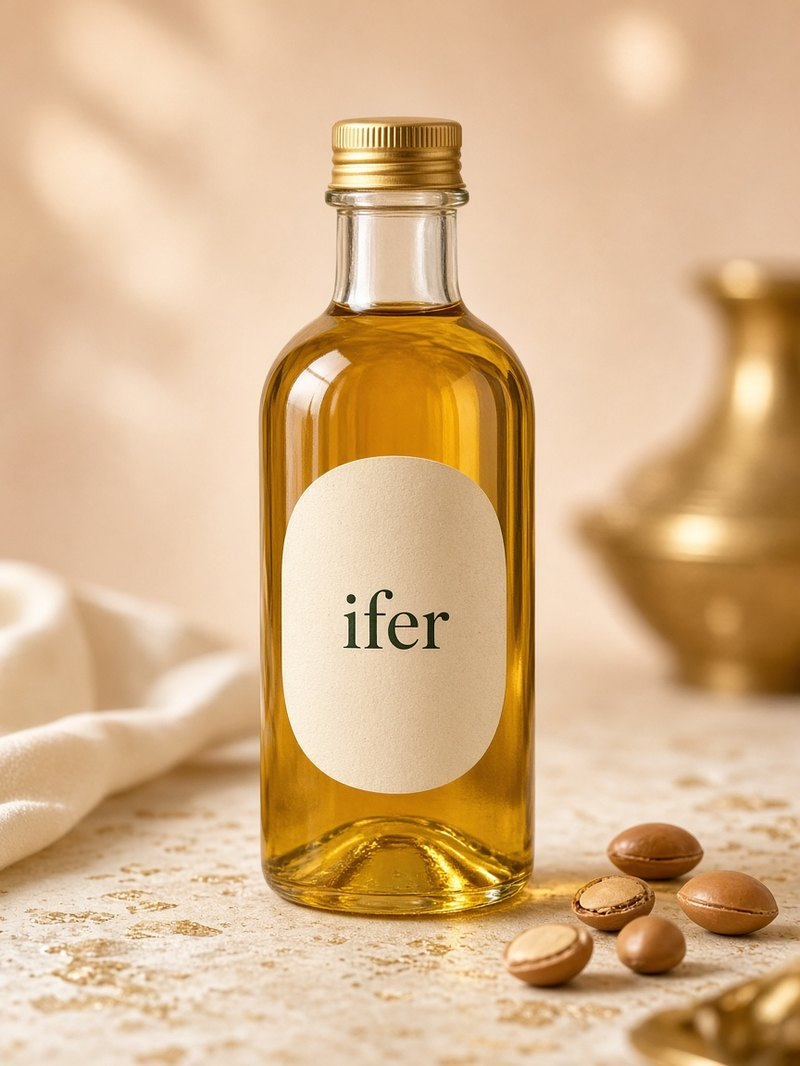
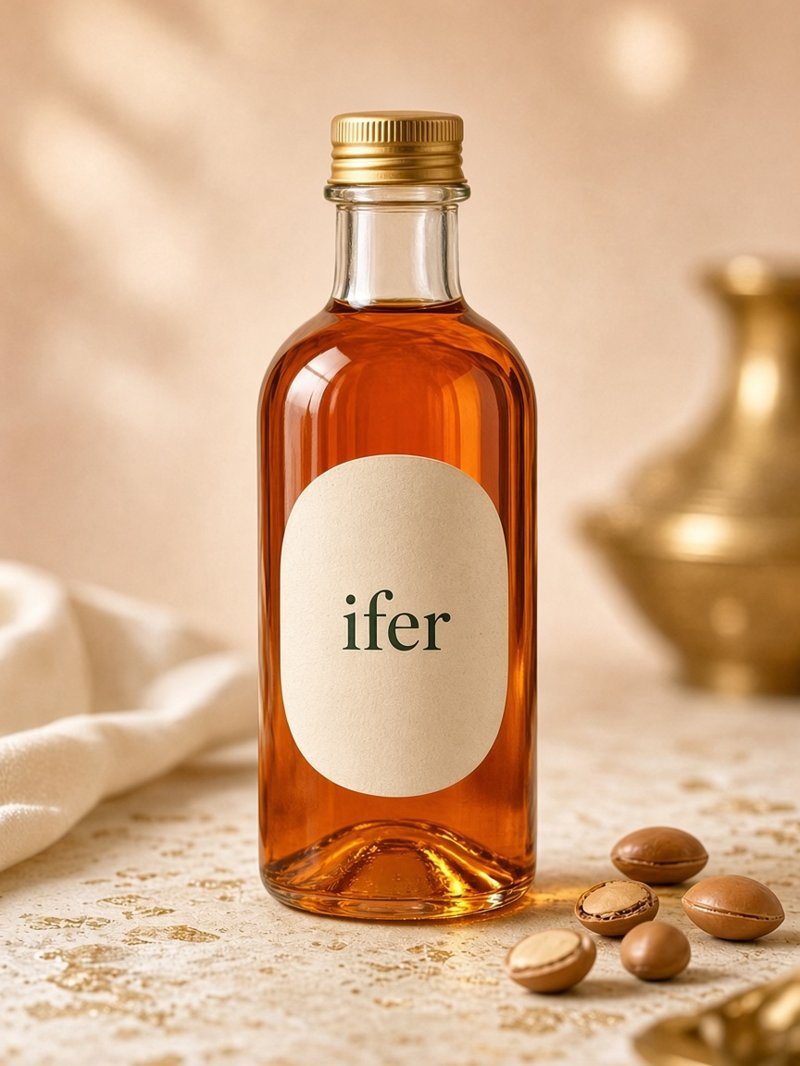
Real argan oil color; new elegant tagline

diff --git a/index.html b/index.html
@@ -43,7 +43,7 @@
       <div class="hero-caption">
         <p class="eyebrow"><span class="star" aria-hidden="true"></span> natural living <span class="star" aria-hidden="true"></span></p>
         <h1>Huiles, délices et rituels<br>du terroir marocain</h1>
-        <p class="hero-ar" lang="ar" dir="rtl">من الطبيعة المغربية، للماكلة والكوسميتيك</p>
+        <p class="hero-ar" lang="ar" dir="rtl">سرّ الأرض المغربية… فكل قطرة</p>
         
       </div>
     </section>
